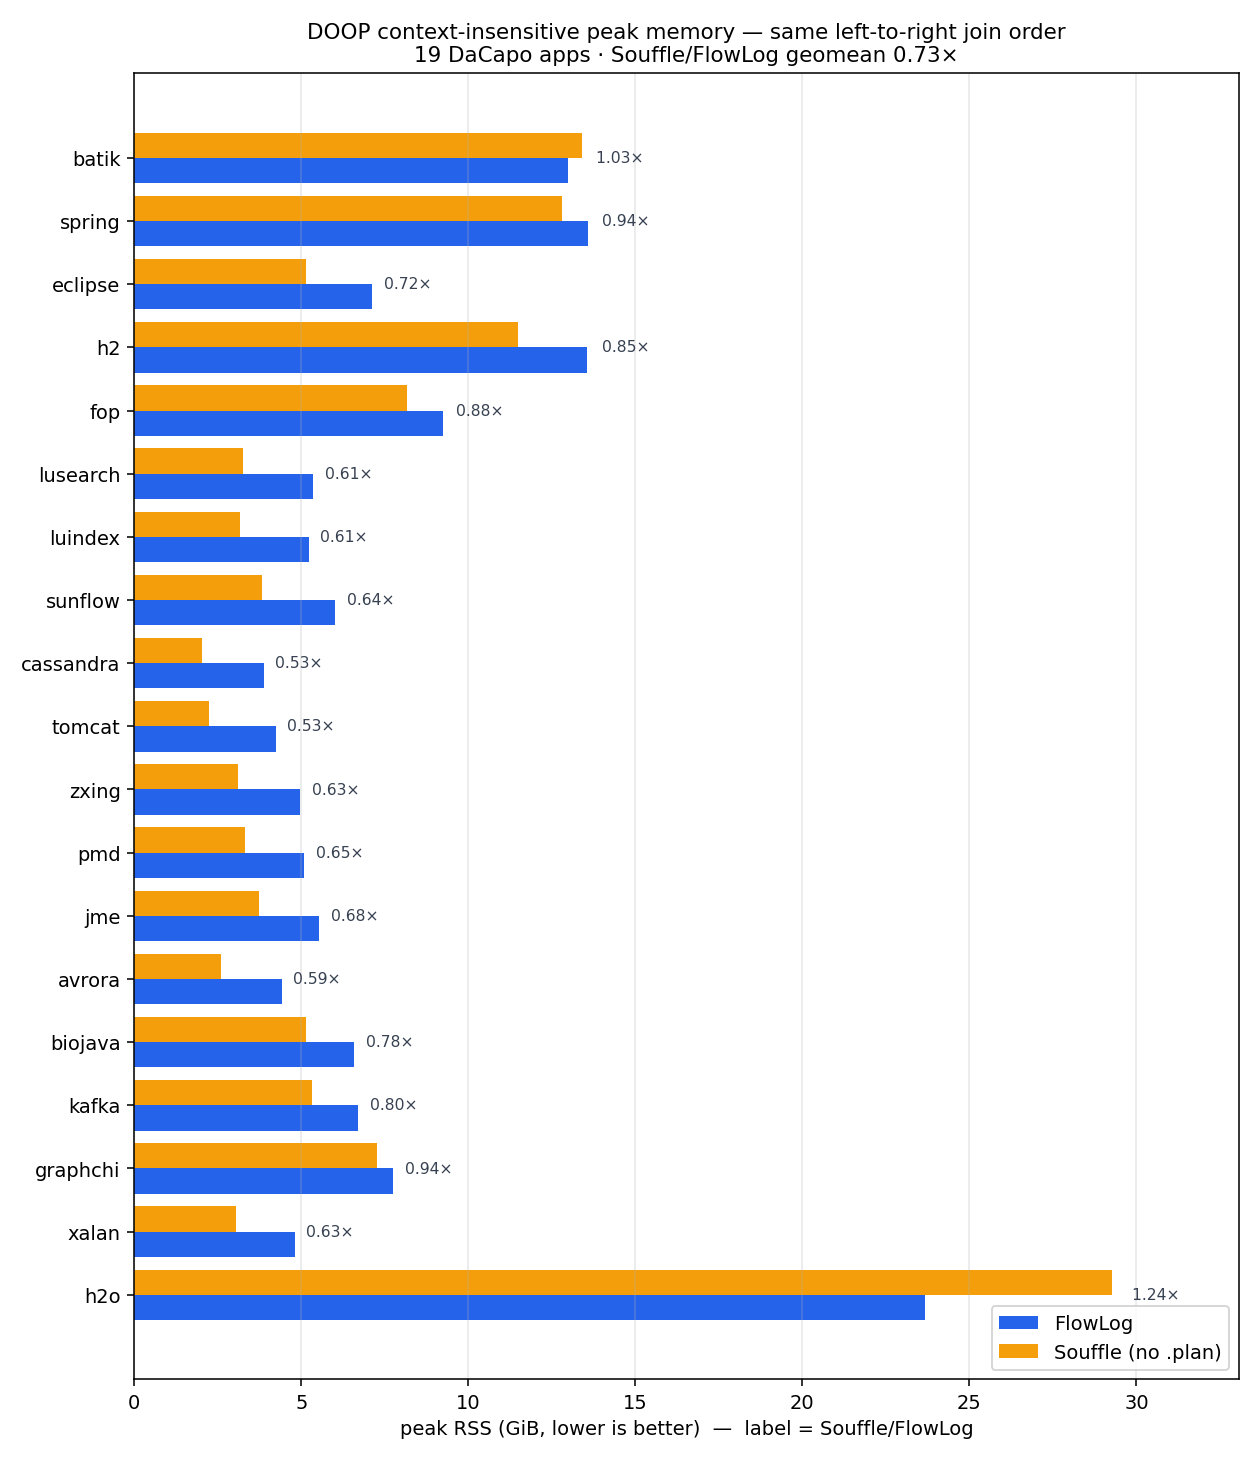
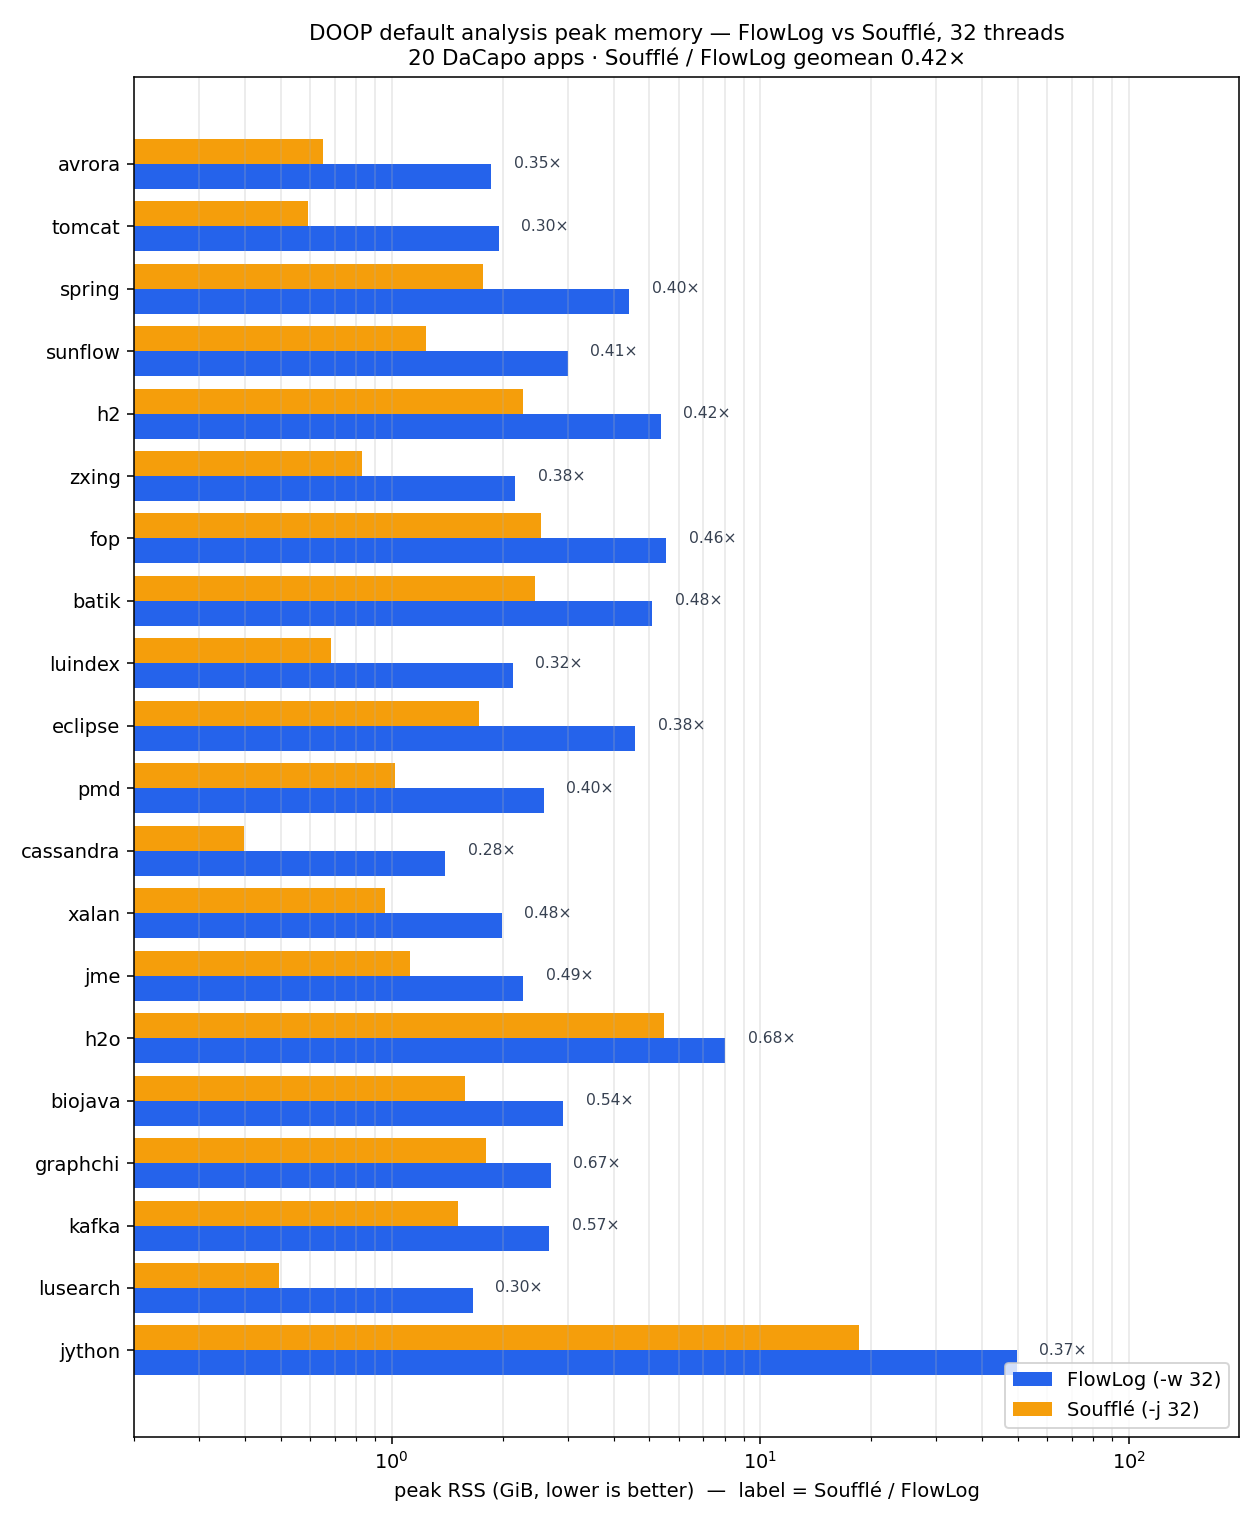
docs: benchmark FlowLog vs Souffle on DOOP default analysis (20 apps)
Replace the context-insensitive showcase with the DOOP default analysis
(doop/default.dl) across all 20 DaCapo apps at 32 threads. Souffle program
is the same default.dl with type-keyword renames (identical rules/join
order); all 20 produce identical VarPointsTo. FlowLog faster on 20/20
(geomean 1.95x); Souffle leaner on memory (0.42x).

Changed region(s): [[0.031, 0.0924, 0.9905, 0.9856], [0.2476, 0.0, 0.8357, 0.0616]]

diff --git a/README.md b/README.md
@@ -123,16 +123,16 @@ $ flowlog-compiler <PROGRAM> [OPTIONS]
 
 A green oracle run is the definition of correct — see [`tests/README.md`](tests/README.md) for per-suite contracts and recipes.
 
-### FlowLog vs Soufflé — DOOP context-insensitive
+### FlowLog vs Soufflé — DOOP points-to
 
-An apple-to-apple comparison on the DOOP `context-insensitive` points-to analysis across 19 [DaCapo](https://www.dacapobench.org/) programs. Both engines run on **32 threads** (FlowLog `-w 32`; Soufflé compiled and run with `-j 32`) over the **same left-to-right join order** — Soufflé's `.plan` hints stripped and auto-scheduling off — so the numbers reflect the engine, not an optimiser. All 19 programs produce identical results.
+An apple-to-apple comparison on the DOOP **default** points-to analysis (`doop/default.dl`) across all 20 [DaCapo](https://www.dacapobench.org/) programs. Both engines run on **32 threads** (FlowLog `-w 32`; Soufflé compiled and run with `-j 32`) over identical tab-delimited facts. The Soufflé program is the *same* `default.dl` with only type-keyword renames (`:string`→`:symbol`, `:int32`→`:number`) — identical rules and written join order, so the numbers reflect the engine. All 20 programs produce **identical VarPointsTo**.
 
 ![DOOP run time — FlowLog vs Soufflé](docs/doop-time.png)
 
 ![DOOP peak memory — FlowLog vs Soufflé](docs/doop-memory.png)
 
-- **Run time** (FlowLog's one-off compile excluded) — FlowLog faster on 17/19, geomean **1.95×** (range 0.56–4.75×).
-- **Peak memory** — Soufflé/FlowLog geomean **0.73×**: Soufflé is leaner on light apps, FlowLog on the densest (h2o, batik).
+- **Run time** (run only; one-off compile excluded) — FlowLog faster on **20/20**, geomean **1.95×** (range 1.41–3.27×).
+- **Peak memory** — Soufflé is leaner: Soufflé/FlowLog geomean **0.42×** (FlowLog trades memory for speed).
 
 Full methodology and per-program numbers live in [`flowlog-bench`](https://github.com/flowlog-rs/flowlog-bench).
 